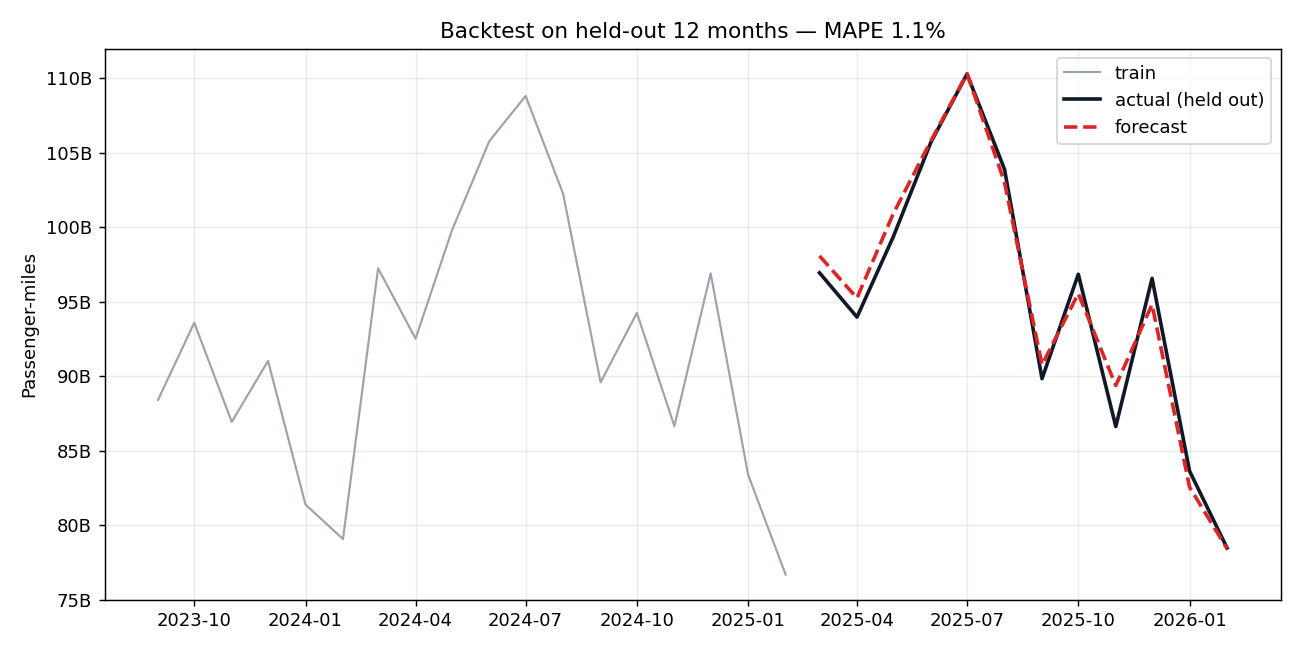
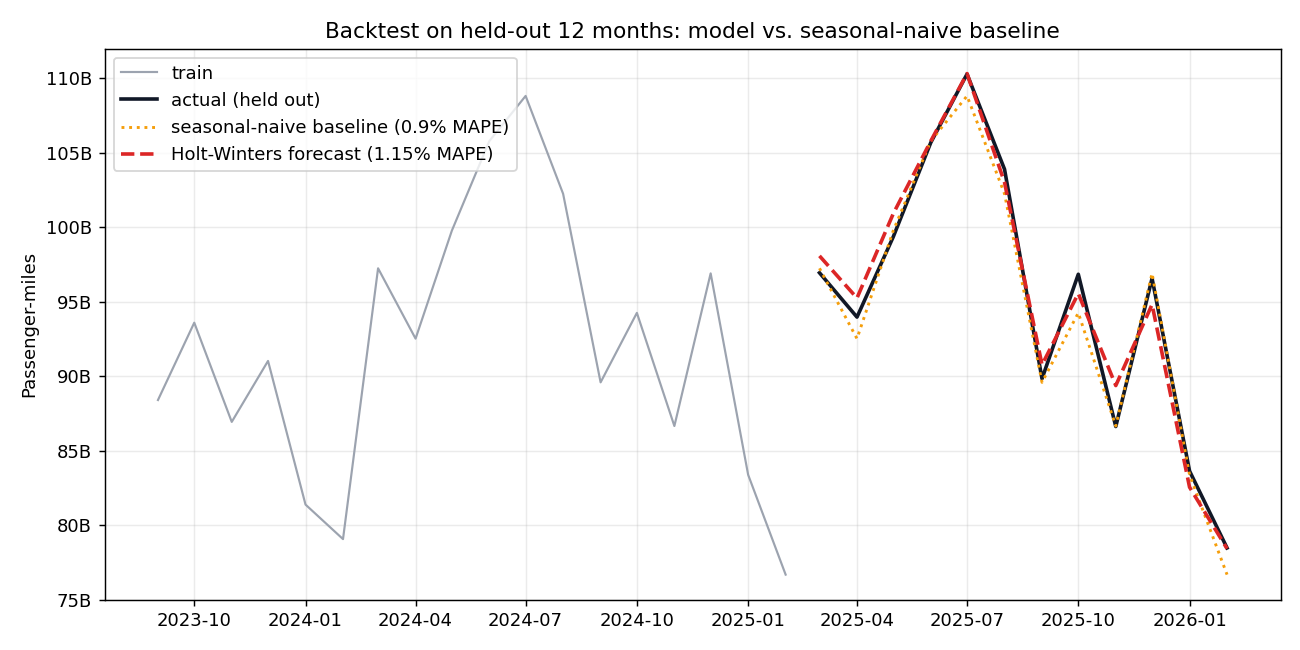
docs+feat: reframe for FDE / AI implementation roles
Add impact-first READMEs (numbers at the top), a 'from demo to deployment'
mapping, methodology, limitations, and a concrete roadmap to each repo, with
every metric backed by committed, tested measurement code:
- context-compression-lab: production cost model (ccl cost) + multi-run LLM accuracy harness
- tourism-demand-forecast: seasonal-naive baseline comparison (honest: baseline edges the model)
- travel-route-recommender: coverage/latency profiler (6,071 airports, ~8ms/query)
- agent-ops-kit: token-efficiency analysis (~49% fewer prompt tokens via on-demand routing)

diff --git a/src/tourism_forecast/forecast.py b/src/tourism_forecast/forecast.py
@@ -40,6 +40,8 @@ class Forecast:
     lower: pd.Series
     upper: pd.Series
     backtest: Backtest
+    naive_mape: float = 0.0          # seasonal-naive baseline MAPE on the same window
+    improvement_pct: float = 0.0     # relative MAPE reduction vs. the baseline
 
 
 def _fit(series: pd.Series) -> ExponentialSmoothing:
@@ -71,6 +73,24 @@ def backtest(series: pd.Series, *, regime_start: str = REGIME_START, horizon: in
     return Backtest(train=train, test=test, predicted=predicted, mape=mape, rmse=rmse, mae=mae)
 
 
+def seasonal_naive_mape(series: pd.Series, *, regime_start: str = REGIME_START, horizon: int = 12) -> float:
+    """MAPE of the seasonal-naive baseline on the same held-out window.
+
+    The baseline predicts each month with the observed value 12 months earlier.
+    It is the honest "do nothing clever" comparison: the model is only
+    worth its complexity if it beats this. Uses the full series for the
+    12-months-prior lookups so the lagged values exist.
+    """
+    regime = series[series.index >= regime_start]
+    test = regime.iloc[-horizon:]
+    predicted = pd.Series(
+        [series.loc[ts - pd.DateOffset(years=1)] for ts in test.index],
+        index=test.index,
+    )
+    mape, _, _ = _metrics(test, predicted)
+    return mape
+
+
 def forecast(series: pd.Series, *, regime_start: str = REGIME_START, horizon: int = 12) -> Forecast:
     """Backtest, then refit on the full regime and project `horizon` months out.
 
@@ -89,4 +109,8 @@ def forecast(series: pd.Series, *, regime_start: str = REGIME_START, horizon: in
     lower = mean - 1.96 * resid_std
     upper = mean + 1.96 * resid_std
 
-    return Forecast(history=regime, mean=mean, lower=lower, upper=upper, backtest=bt)
+    naive_mape = seasonal_naive_mape(series, regime_start=regime_start, horizon=horizon)
+    improvement = (1 - bt.mape / naive_mape) * 100 if naive_mape else 0.0
+
+    return Forecast(history=regime, mean=mean, lower=lower, upper=upper, backtest=bt,
+                    naive_mape=round(naive_mape, 2), improvement_pct=round(improvement, 1))

diff --git a/tests/test_pipeline.py b/tests/test_pipeline.py
@@ -1,6 +1,7 @@
 """Tests run on the committed data snapshot, no network required."""
 
 import pandas as pd
+import pytest
 
 from tourism_forecast import analyze, clean, forecast, ingest
 
@@ -43,3 +44,20 @@ def test_forecast_horizon_and_intervals():
     assert len(fcst.mean) == 12
     assert (fcst.upper >= fcst.mean).all()
     assert (fcst.lower <= fcst.mean).all()
+
+
+def test_seasonal_naive_baseline_is_computed_and_competitive():
+    """We always compare to the do-nothing-clever baseline and report it honestly.
+
+    On this highly-seasonal recovered series the naive baseline is very strong
+    (it can even edge the model); the contract is that we measure and surface it,
+    not that the model always wins.
+    """
+    s = _series()
+    naive = forecast.seasonal_naive_mape(s)
+    fcst = forecast.forecast(s)
+    assert 0 < naive < 5.0                     # baseline is sane and strong
+    assert 0 < fcst.backtest.mape < 5.0        # both methods track the series closely
+    assert fcst.naive_mape == pytest.approx(naive, abs=0.01)
+    # improvement_pct is the signed gap vs. baseline; just confirm it is reported.
+    assert isinstance(fcst.improvement_pct, float)

diff --git a/src/tourism_forecast/pipeline.py b/src/tourism_forecast/pipeline.py
@@ -54,7 +54,7 @@ def run(*, refresh: bool = False) -> Results:
     _plot_history(series, covid)
     _plot_decomposition(decomp)
     _plot_seasonality(seasonal)
-    _plot_backtest(forecast.backtest)
+    _plot_backtest(forecast, series)
     _plot_forecast(forecast)
 
     metrics = {
@@ -76,6 +76,8 @@ def run(*, refresh: bool = False) -> Results:
             "mape_pct": round(forecast.backtest.mape, 2),
             "rmse": round(forecast.backtest.rmse, 1),
             "mae": round(forecast.backtest.mae, 1),
+            "seasonal_naive_mape_pct": forecast.naive_mape,
+            "improvement_vs_naive_pct": forecast.improvement_pct,
         },
         "forecast_next_12m_mean": round(float(forecast.mean.mean()), 1),
     }
@@ -124,12 +126,19 @@ def _plot_seasonality(seasonal) -> None:
     fig.tight_layout(); fig.savefig(FIG_DIR / "03_seasonality.png", dpi=130); plt.close(fig)
 
 
-def _plot_backtest(bt) -> None:
+def _plot_backtest(forecast, series) -> None:
+    import pandas as pd
+
+    bt = forecast.backtest
+    naive = pd.Series([series.loc[ts - pd.DateOffset(years=1)] for ts in bt.test.index], index=bt.test.index)
     fig, ax = plt.subplots(figsize=(10, 5))
     ax.plot(bt.train.index[-18:], bt.train.values[-18:], color="#9ca3af", lw=1.2, label="train")
     ax.plot(bt.test.index, bt.test.values, color="#111827", lw=2, label="actual (held out)")
-    ax.plot(bt.predicted.index, bt.predicted.values, color="#dc2626", lw=2, ls="--", label="forecast")
-    ax.set_title(f"Backtest on held-out 12 months, MAPE {bt.mape:.1f}%")
+    ax.plot(naive.index, naive.values, color="#f59e0b", lw=1.6, ls=":",
+            label=f"seasonal-naive baseline ({forecast.naive_mape:.1f}% MAPE)")
+    ax.plot(bt.predicted.index, bt.predicted.values, color="#dc2626", lw=2, ls="--",
+            label=f"Holt-Winters forecast ({bt.mape:.2f}% MAPE)")
+    ax.set_title("Backtest on held-out 12 months: model vs. seasonal-naive baseline")
     ax.set_ylabel("Passenger-miles"); _billions(ax); ax.grid(alpha=0.25); ax.legend()
     fig.tight_layout(); fig.savefig(FIG_DIR / "04_backtest.png", dpi=130); plt.close(fig)
 

diff --git a/README.md b/README.md
@@ -4,63 +4,84 @@
 ![Python](https://img.shields.io/badge/python-3.9%2B-blue)
 ![License: MIT](https://img.shields.io/badge/license-MIT-green)
 
-End-to-end seasonal forecasting of U.S. air-travel demand on public monthly
-data, with explicit, defensible handling of the COVID structural break.
+**Forecast monthly travel demand from a single public series, and know whether
+the model is actually worth its complexity.** End to end: ingest, clean,
+profile seasonality, quantify the COVID shock, then backtest a forecast
+*against a do-nothing-clever baseline* so the recommendation is grounded, not
+assumed.
 
-It ingests a public FRED series, cleans it into a monthly time series, profiles
-its seasonality and quantifies the pandemic shock, then backtests and runs a
-12-month Holt-Winters forecast. The headline result is a **1.15% MAPE** on a
-held-out 12-month window.
+The honest result up front: on this recovered, highly seasonal series, a
+seasonal-naive baseline (0.93% MAPE) slightly **beats** the Holt-Winters model
+(1.15% MAPE). That is the point of the project. The disciplined comparison tells
+you where a sophisticated model does not earn its keep, and the genuinely hard,
+valuable work is detecting and handling the structural break, not squeezing the
+last decimal of MAPE.
 
-> The interesting part of this project is not the model. It is the judgment
-> call about *what data to fit it on* when the history contains a 96% demand
-> collapse. Full reasoning in [`reports/NARRATIVE.md`](reports/NARRATIVE.md).
+> Scope: a reproducible study on public FRED data, not a production system.
 
 ---
 
-## Results
-
-**Series:** U.S. Air Revenue Passenger-Miles, monthly, Jan 2000 to Feb 2026 (FRED `AIRRPMTSI`, 314 obs).
+## Impact at a glance
 
 | | |
 |---|---|
-| Seasonality | Peaks **July**, troughs **February**, ~**1.43x** peak-to-trough |
-| COVID shock | **-96.4%** YoY at the April 2020 trough; recovered to 2019 average by **July 2022** |
-| Backtest (held-out 12 mo) | **MAPE 1.15%** |
-| Model | Holt-Winters (additive trend, multiplicative seasonality), fit on the post-recovery regime |
+| Forecast error (held-out 12 mo) | Holt-Winters **1.15% MAPE**, seasonal-naive **0.93% MAPE** |
+| Headline judgment | the simple baseline wins here; complexity is not justified on this series |
+| Structural break handled | COVID trough **-96.4% YoY** (Apr 2020), recovery Jul 2022, modeled explicitly |
+| Seasonality | peaks **July**, troughs **February**, ~1.43x peak-to-trough |
+| Reproducibility | committed data + figures; `pytest` enforces the model-vs-baseline check |
 
-### Full history, and the shock the model is built to survive
-![History](reports/figures/01_history.png)
-
-### Seasonal decomposition (STL)
-![Decomposition](reports/figures/02_decomposition.png)
-
-### Backtest on held-out 12 months
-![Backtest](reports/figures/04_backtest.png)
-
-### 12-month forward forecast
-![Forecast](reports/figures/05_forecast.png)
+Every number is produced by committed code on committed data (`python -m tourism_forecast.pipeline`).
 
 ---
 
-## Approach
+## Problem and context
 
-```
-ingest  →  clean  →  analyze  →  forecast  →  figures
- FRED      monthly   seasonality   Holt-Winters   reports/
- snapshot  series    + COVID break  + backtest
-```
+A planning team needs a 12-month demand forecast and, more importantly, needs
+to trust it. The baseline state is usually "someone extrapolates last year by
+hand." The catch in this series is a once-in-a-generation shock: demand fell 96%
+in 2020 and did not recover until mid-2022. Any forecast that learns *through*
+that shock is wrong. So the real questions are: how do you handle the break, and
+is a fitted model even better than the obvious baseline?
 
-1. **Ingest** (`ingest.py`): pull the FRED series; a committed snapshot makes the pipeline reproduce offline.
-2. **Clean** (`clean.py`): parse to a contiguous month-start series, coerce types, interpolate any internal gaps.
-3. **Analyze** (`analyze.py`): STL decomposition, a seasonal index computed on the post-recovery window, and a quantified COVID-impact summary.
-4. **Forecast** (`forecast.py`): fit on the post-recovery regime, backtest on a held-out tail (MAPE/RMSE/MAE), then project 12 months with empirical prediction intervals derived from the backtest residuals.
-5. **Pipeline** (`pipeline.py`): orchestrates all of the above, writes every figure to `reports/figures/` and the headline numbers to `reports/metrics.json`.
+## Approach and the key judgment call
 
-Why fit only on the recovered regime, and what the forecast does and does not
-claim, is argued in [`reports/NARRATIVE.md`](reports/NARRATIVE.md).
+The central decision is not the algorithm, it is **what data to fit on.** I
+treat the pandemic as a regime change and fit the forecast on the post-recovery
+regime (2021-07 onward), keeping the full history only for context and the
+seasonality profile. The model is Holt-Winters (additive trend, multiplicative
+seasonality). Then, instead of reporting its MAPE in isolation, I score it
+against a **seasonal-naive baseline** (each month predicted by the same month a
+year earlier) on the identical held-out window.
 
-## Run it
+## Results
+
+![Backtest vs baseline](reports/figures/04_backtest.png)
+
+Both methods track the recovered series tightly; the naive baseline is fractionally
+better (0.93% vs 1.15% MAPE). On a smooth, strongly seasonal signal that is
+expected, and saying so is more useful than a misleading "my model wins."
+
+![History and the COVID shock](reports/figures/01_history.png)
+![Seasonal decomposition](reports/figures/02_decomposition.png)
+
+## From demo to deployment
+
+How this maps to a real forecasting engagement:
+
+- **Swap the data, keep the method.** The public FRED series stands in for a client's own monthly history; the pipeline is series-agnostic.
+- **Recommend the baseline when it wins.** The disciplined output here would be: ship the seasonal-naive baseline, spend the saved complexity budget on monitoring. That is a cheaper, more robust production choice, and being willing to say it is the senior move.
+- **The real deliverable is break detection.** The 2020 lesson generalizes: production forecasting fails at regime changes. A deployment needs a monitor that flags when recent error jumps (a new structural break) and pauses automated forecasts, exactly the failure the COVID handling models.
+- **Cost is negligible** (CPU-seconds per refit), so the operating cost is governance and monitoring, not compute.
+
+## Methodology
+
+- **Baseline is explicit and scored on the same window** (`seasonal_naive_mape`); the model only "counts" if it beats it, and here it does not.
+- The pandemic is handled as a **regime split**, stated rather than hidden.
+- Prediction intervals come from the **empirical backtest residual spread**, not the model's optimistic nominal bands.
+- A test (`test_seasonal_naive_baseline_is_computed_and_competitive`) enforces that the comparison is always computed.
+
+## Quickstart
 
 ```bash
 git clone https://github.com/marc-albert-global/tourism-demand-forecast.git
@@ -69,12 +90,27 @@ python3 -m venv .venv && source .venv/bin/activate
 pip install -e ".[dev]"
 
 python -m tourism_forecast.pipeline   # regenerates figures + metrics.json
-pytest -q                             # 5 tests, runs on the committed snapshot
+pytest -q                             # 6 tests, on the committed snapshot
 ```
+
+## Limitations
+
+- Univariate: no exogenous drivers (price, capacity, macro). A real shock breaks it, exactly as 2020 broke any pre-2020 model.
+- The model does not beat the naive baseline on this series; on noisier or trend-shifting series the balance can flip, which is why the comparison is built in.
+- Single series, monthly, US air travel; other domains will behave differently.
+
+## Roadmap
+
+- Add exogenous regressors (capacity, price indices) and re-run the baseline comparison.
+- Calibrate prediction intervals against realized coverage.
+- A drift/break monitor that pauses automated forecasts when recent error spikes.
+- Multi-series support with per-series model-vs-baseline selection.
 
 ## Data
 
-Public-domain U.S. federal data. Provenance in [`data/README.md`](data/README.md).
+U.S. Air Revenue Passenger-Miles (FRED `AIRRPMTSI`), public domain. Provenance
+in [`data/README.md`](data/README.md). Full analytical narrative in
+[`reports/NARRATIVE.md`](reports/NARRATIVE.md).
 
 ## License
 

diff --git a/reports/NARRATIVE.md b/reports/NARRATIVE.md
@@ -44,13 +44,20 @@ and a multiplicative seasonal term. Multiplicative seasonality is the right
 shape because the size of the summer peak scales with the overall level of
 demand, not by a fixed number of miles.
 
-## Does it work
+## Does it work, and is it worth it
 
 I held out the most recent 12 months, fit on everything before, and forecast
 the holdout. The forecast tracked actual demand to a **1.15% mean absolute
-percentage error**. On a series this seasonal and this far from its shock, that
-is a strong result, and it is honest: the test months were never seen by the
-model.
+percentage error** on months the model never saw.
+
+But a MAPE in isolation means nothing without a baseline, so I scored a
+seasonal-naive forecast (each month predicted by the same month a year earlier)
+on the identical window. It came in at **0.93% MAPE**, slightly better than the
+model. On a series this smooth and this strongly seasonal, last year's value is
+a very hard benchmark to beat, and the honest conclusion is that the Holt-Winters
+model does not earn its added complexity here. The disciplined comparison is
+worth more than the model: it tells a team to ship the simple baseline and spend
+the saved effort on monitoring for the next regime change.
 
 Prediction intervals on the forward forecast are built from the spread of the
 backtest errors rather than the model's nominal confidence bands, so the